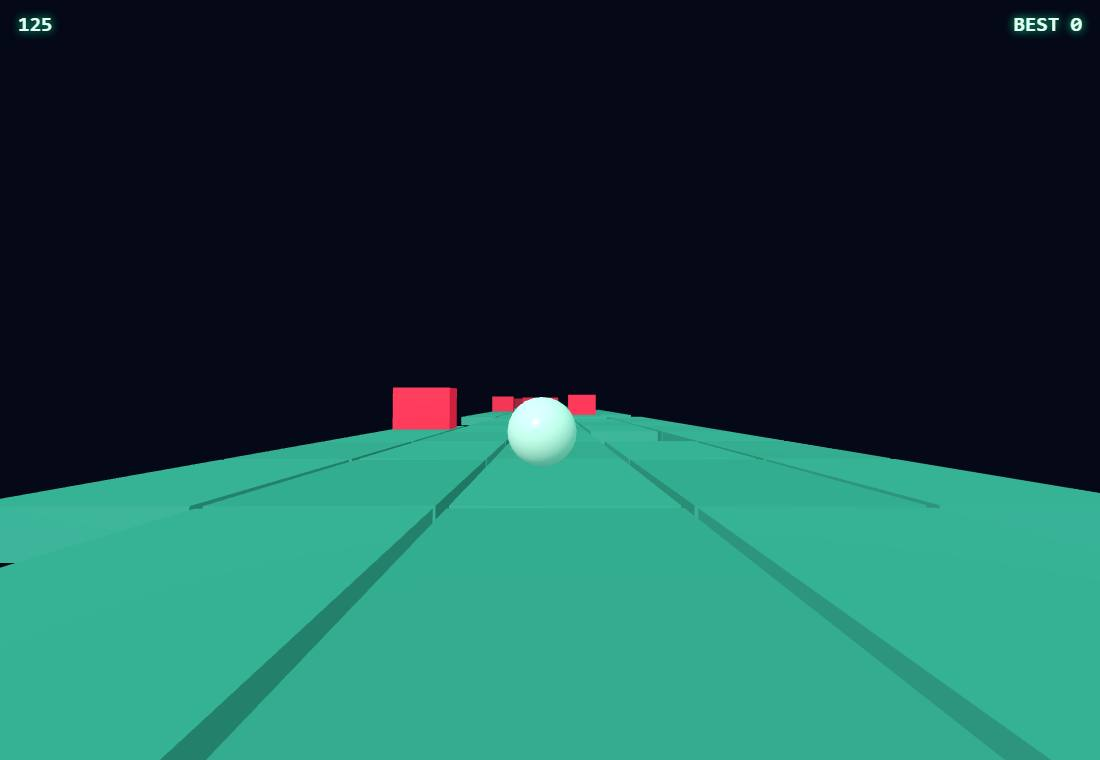
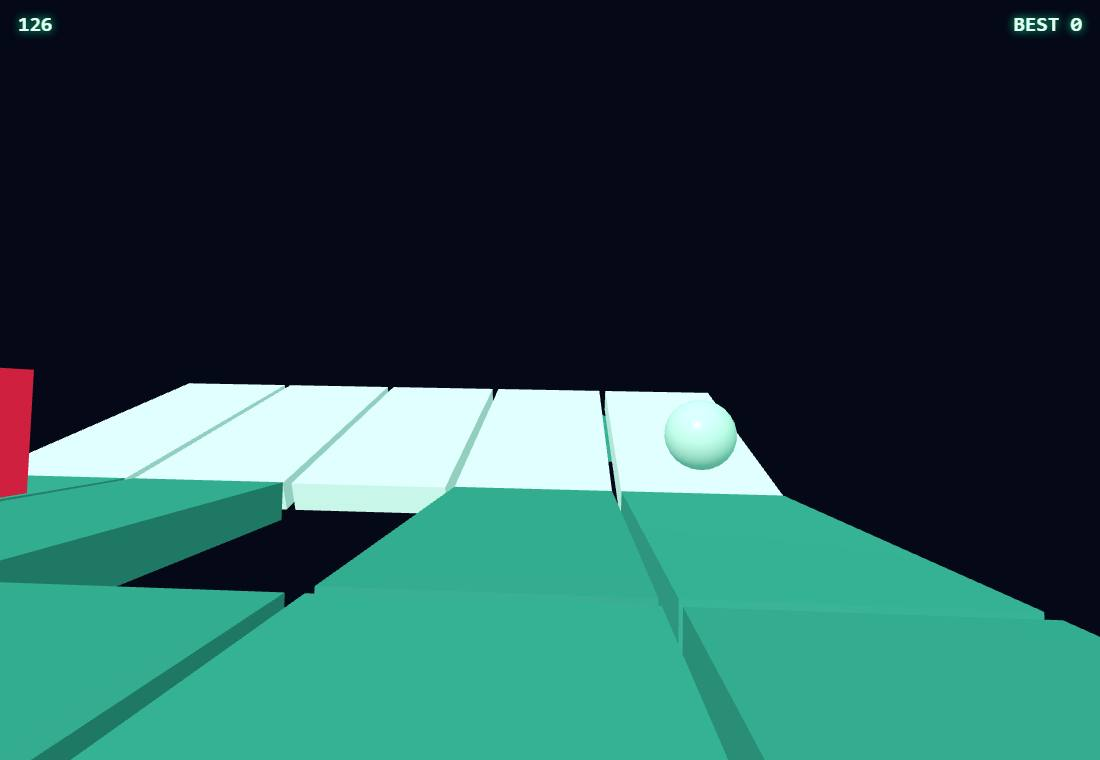
Make Slope jumps reliable and de-flake new e2e tests
Slope: lane changes started so often that a jump section almost never
qualified. Once a jump is due, stop starting new lane changes so it begins
at the next calm stretch. An autopilot following the generator's lane now
reaches 2200 units at top speed over ~14 ramp jumps in 4 of 4 runs.

Tests: aim the Build Fight shooting test at the torso instead of the top
of the head (a 0.14 spread could miss), accept countdown or fight where
the real-time loop may already have advanced, and cut the Slope test to
320 units with a longer timeout so it holds up under parallel load.

diff --git a/public/games/slope-run/game.js b/public/games/slope-run/game.js
@@ -48,7 +48,7 @@ let nextCol = 2;      // lane being moved to (both stay clear during a transitio
 let shiftRows = 0;    // rows left in the current transition
 let lastShift = -9;
 let section = null;   // { ramp, gapEnd, padEnd } for a jump section
-let nextSectionAt = 40;
+let nextSectionAt = 30;
 let rng = Math.random;
 
 const speedAtRow = (i) => Math.min(42, 14 + i * ROW * 0.018);
@@ -61,7 +61,8 @@ function makeRow(i) {
     const d = Math.min(1, i / 220);
     const speedAt = speedAtRow(i);
     if (section && i > section.padEnd) section = null;
-    if (!section && shiftRows === 0 && i >= nextSectionAt && i - lastShift > 6 && rng() < 0.25) {
+    // Once a jump is due, it starts at the first calm stretch (no lane change under way).
+    if (!section && shiftRows === 0 && i >= nextSectionAt && i - lastShift > 6) {
       // Jump: a full-width ramp, then a gap sized to the flight distance at this speed, then a clear landing pad.
       // Airtime = 2 * climb / g, with climb = speed * RAMP_H / ROW, so the distance is 2 * speed^2 * RAMP_H / (ROW * g).
       const flight = (2 * speedAt * speedAt * RAMP_H) / (ROW * GRAVITY);
@@ -83,7 +84,7 @@ function makeRow(i) {
       const transitionRows = Math.ceil(TILE_W / (13 * (ROW / speedAt))) + 1;
       if (shiftRows > 0) {
         if (--shiftRows === 0) safeCol = nextCol;
-      } else if (i - lastShift >= transitionRows + 1 && rng() < 0.5) {
+      } else if (i < nextSectionAt && i - lastShift >= transitionRows + 1 && rng() < 0.5) { // no new lane changes while a jump is due
         const to = Math.max(0, Math.min(COLS - 1, safeCol + (rng() < 0.5 ? -1 : 1)));
         if (to !== safeCol) { nextCol = to; shiftRows = transitionRows; lastShift = i; }
       }
@@ -140,7 +141,7 @@ function reset() {
   shiftRows = 0;
   lastShift = -9;
   section = null;
-  nextSectionAt = 40;
+  nextSectionAt = 30;
   Object.assign(state, { mode: 'play', z: 0, x: 0, y: BALL_R, vy: 0, speed: 14, dist: 0, vx: 0, t: 0 });
   $('msg').hidden = true;
 }
